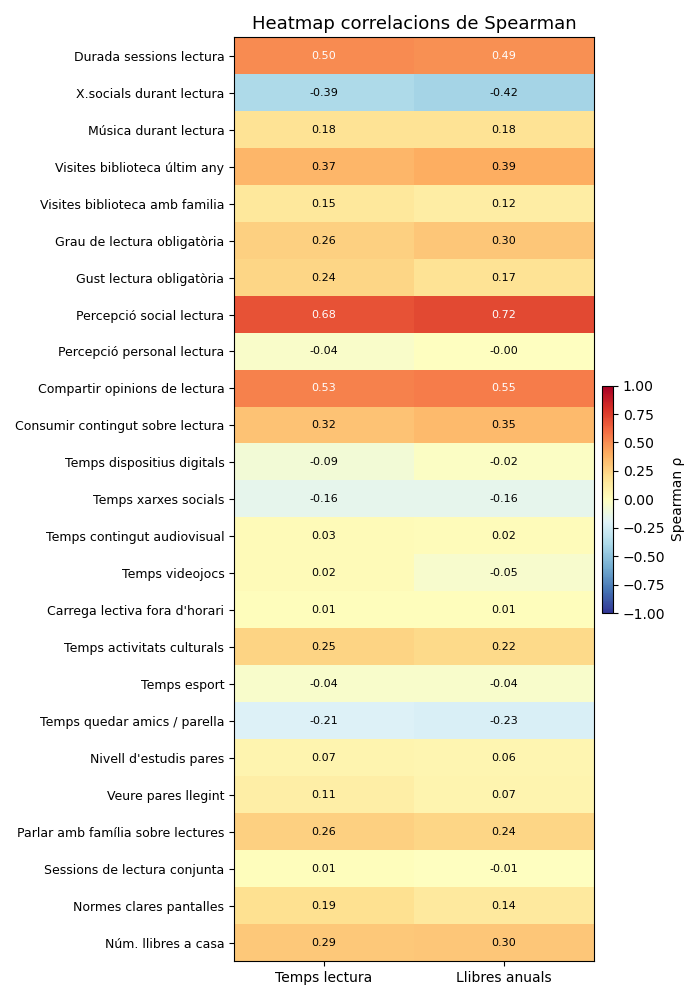
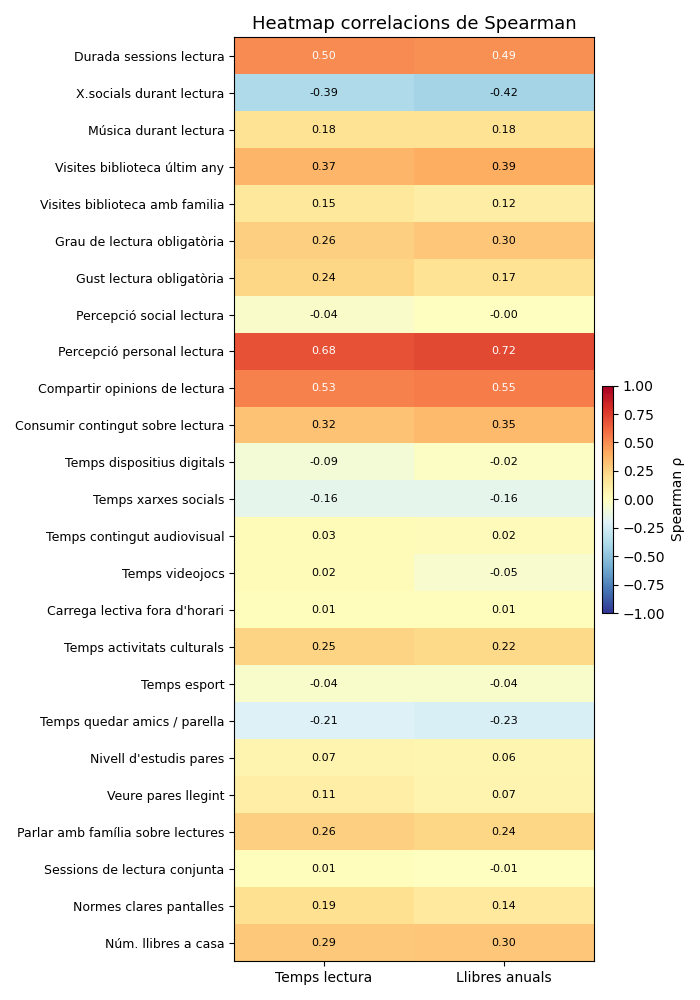
Arreglado en el codigo la cagada de girar variables social y personal, falta el documento

Changed region(s): [[0.33, 0.279, 0.87, 0.372]]

diff --git a/python/main.py b/python/main.py
@@ -1481,8 +1481,8 @@ if len(tags) > 0 and (8 in tags or 13 in tags):
 # =======================================================================================
 # 9. Narrativa social adolescent sobre la lectura
 # =======================================================================================
-df["percepcio_social_lectura_sp"] = df["Amb quina de les següents afirmacions t’identifiques més?"].map(map_afirmacio_sp)
-df["percepcio_individual_lectura_sp"] = df["En general, creus que llegir per oci entre els nois i noies de la teva edat és vist com:"].map(map_com_es_veu_sp)
+df["percepcio_individual_lectura_sp"] = df["Amb quina de les següents afirmacions t’identifiques més?"].map(map_afirmacio_sp)
+df["percepcio_social_lectura_sp"] = df["En general, creus que llegir per oci entre els nois i noies de la teva edat és vist com:"].map(map_com_es_veu_sp)
 df["compartir_sp"] = df["Comparteixes opinions de lectura sobre llibres o còmics que has llegit o estàs llegint amb altres persones? (Amics, família, companys de classe, companys d’activitats extraescolars, etc.)."].map(map_freq_sp)
 
 # Grau de lectura

diff --git a/latex/README.md b/latex/README.md
@@ -19,6 +19,7 @@
 
 ## Pending Tasks
 Tasks to complete for r4:
+- :warning: Arreglar estropicio de girar las variables social e individual
 - :white_check_mark: Fix al %
 - :white_check_mark: Fix all Spearman Correlations, Chi-Squared, V Cramer, etc.
 - :white_check_mark: Write discussions